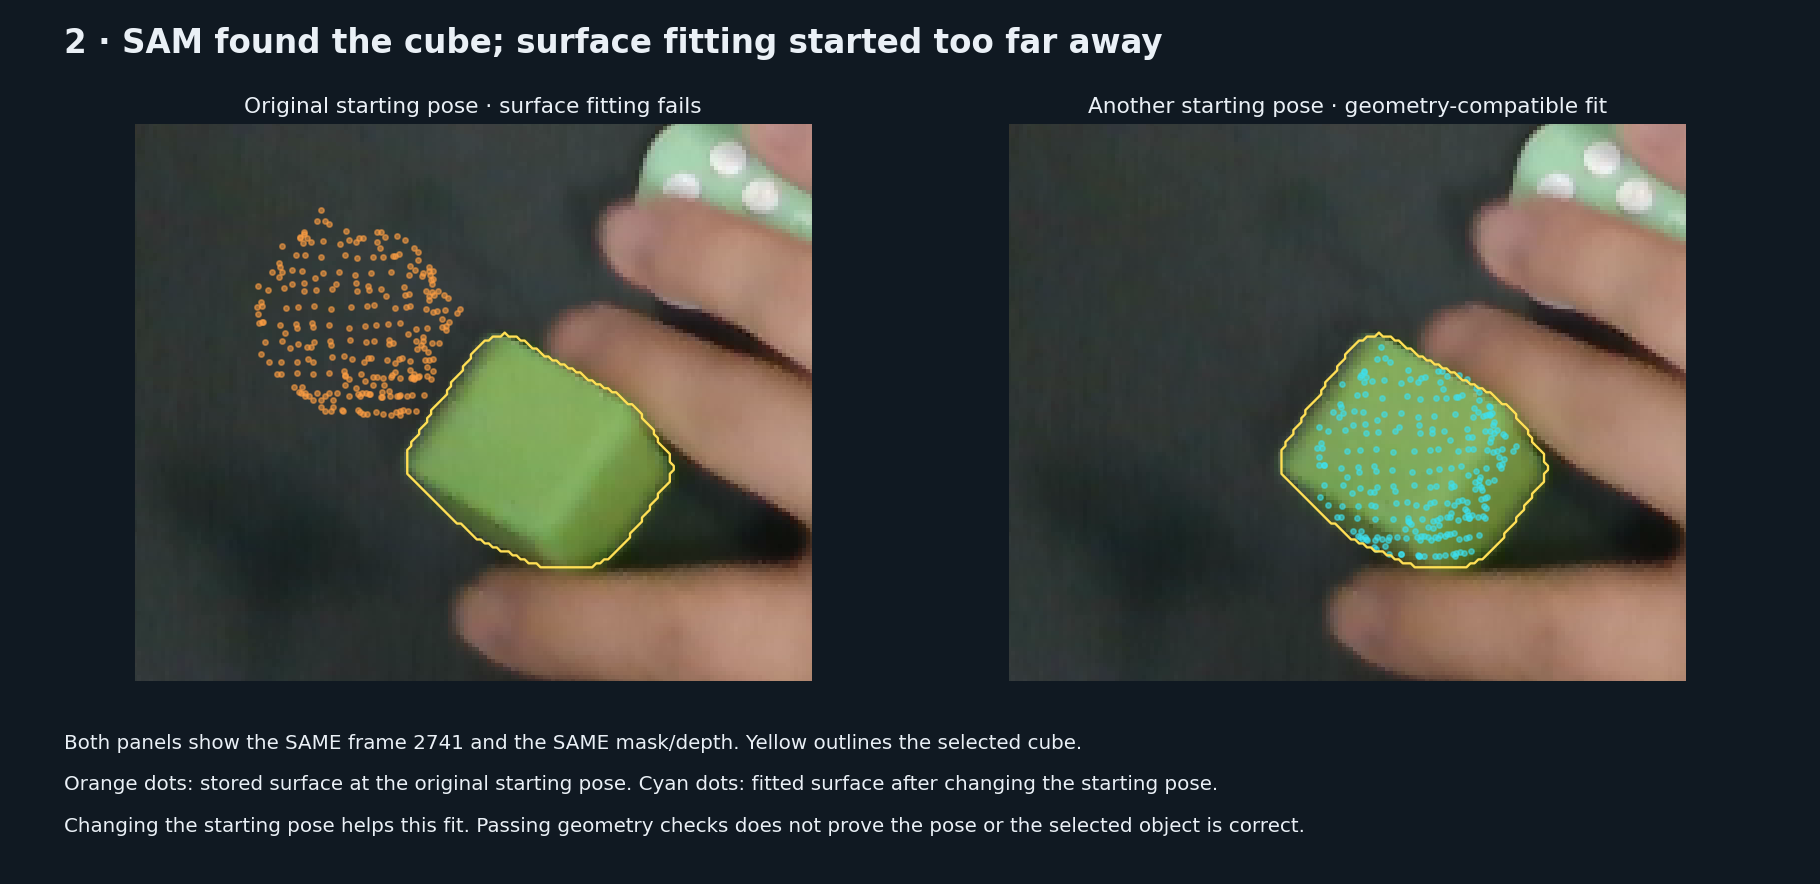
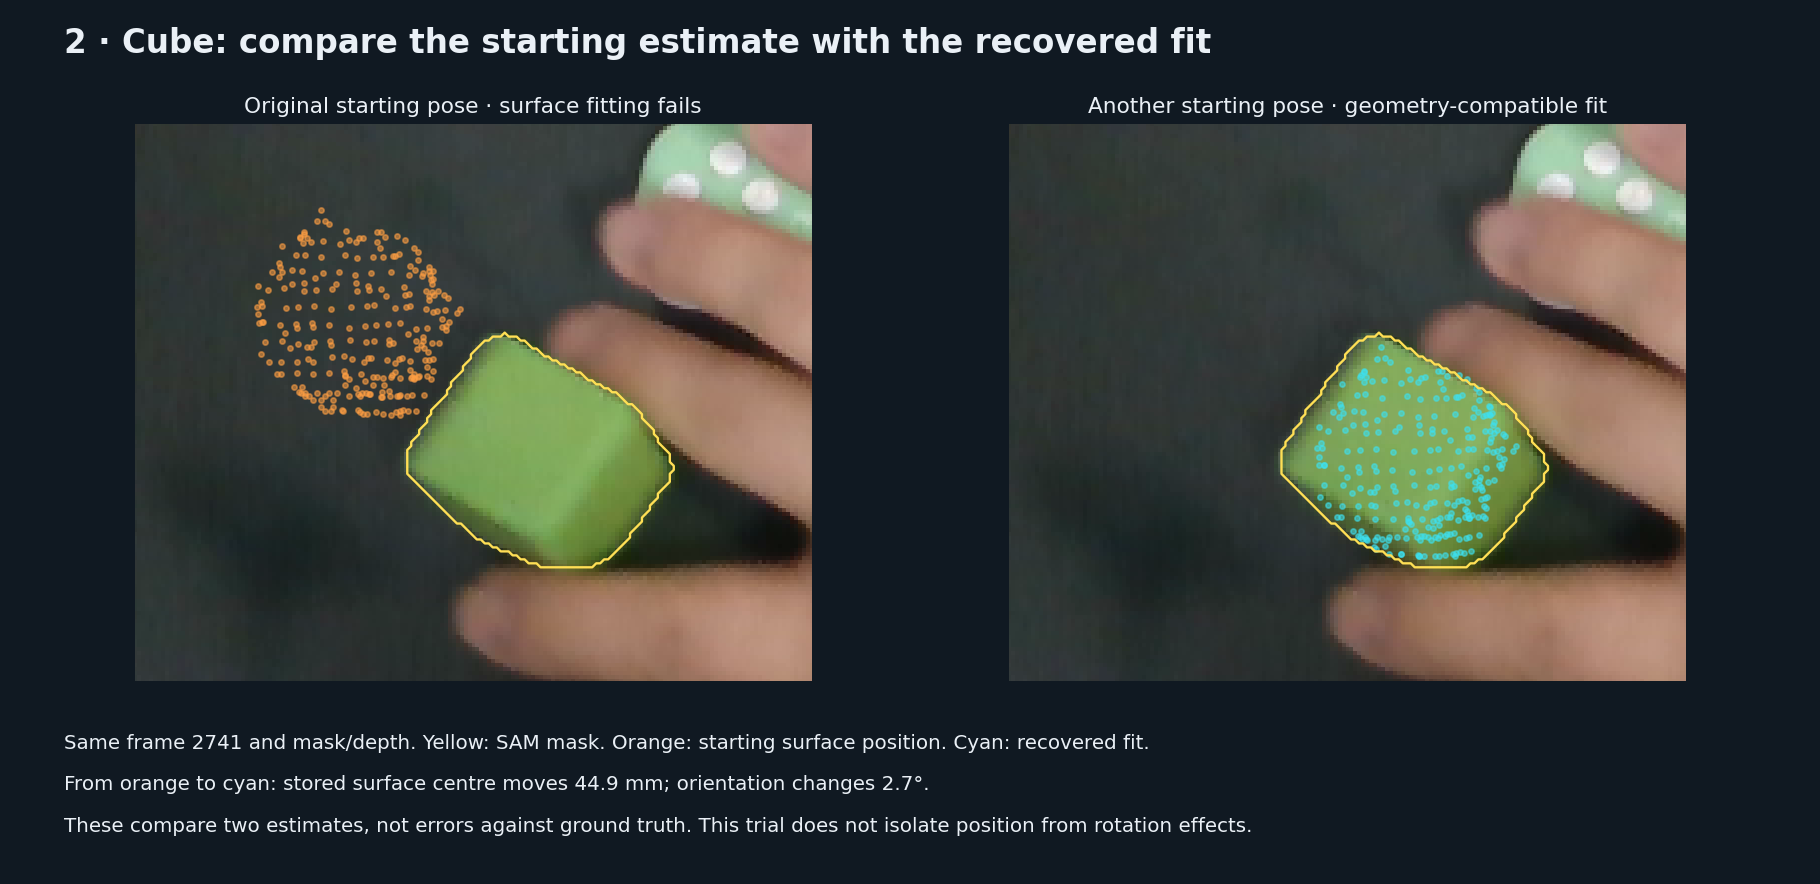
Explain FLASH coordinates and separate position from rotation
The glossary relied on undefined terms and local links unavailable to the remote reader. Describe the 2D pixel, measured camera-space 3D point and remembered object-space 3D point explicitly. Explain rigid motion groups with a tray-and-cube example, independently of anchor terminology.

Replace ambiguous distance wording with separate position and orientation comparisons. Compute the cube figure labels from saved replay geometry: the stored surface centre changes 44.9 mm and orientation changes 2.7 degrees between the starting estimate and recovered fit. These are comparisons of estimates, not ground-truth errors or an isolation of causal effects.

Require inline explanations for remote readers. Regenerated and visually inspected the figure, checked documentation links and fragments, and ran Ruff and whitespace checks. Tracking behavior is unchanged.

Changed region(s): [[0.0308, 0.8247, 0.7077, 0.9468], [0.0615, 0.0305, 0.6769, 0.0611]]

diff --git a/src/lerobot/policies/flash/docs/glossary.html b/src/lerobot/policies/flash/docs/glossary.html
@@ -29,7 +29,9 @@
     system stores or computes; they do not certify that an estimate is correct.</p>
   <p><strong>Writing convention:</strong> use the names below and link their first use
     in an explanation or report. Qualify “identity,” “reference,” and “alignment.”
-    Define a new term here before introducing it elsewhere.</p>
+    Define a new term here before introducing it elsewhere. Explanations must also
+    stand on their own for remote readers who cannot open local links. Specify 2D
+    or 3D, the coordinate system, and separate position from rotation differences.</p>
   <p class="scope">Checked against production source at <code>9ff25cf80</code> and the
     recovery experiments at <code>77becade1</code>. Experimental recovery is explicitly
     identified below; it is not the production default.</p>
@@ -134,19 +136,25 @@
 
   <section id="surface-fitting">
     <h2>Local surface fitting</h2>
-    <p><strong>Adjusting an initial object pose so the stored surface agrees with
-      the current measured surface.</strong> This is also called surface registration.
-      The <strong>starting pose</strong> is the initial rotation and translation
-      passed to that numerical solver.</p>
-    <p>“Local” describes the optimisation: it refines a starting estimate using
-      nearby surface correspondences and a bounded number of iterations. It does
-      not exhaustively search every possible pose. In this replay, the solver is
-      <code>small_gicp</code>; its surface correspondence distance is limited.</p>
-    <p><strong>Earlier wording:</strong> “local 3D alignment” meant this fitting step.
-      SAM can correctly select the cube while fitting still fails: placing the
-      stored surface too far from the measured cube can prevent the solver from
-      finding useful correspondences. The failure is in pose fitting, even when
-      segmentation is correct. See <a href="../../../../../docs/proofs/flash-recovery-20261119/02-local-alignment.png">the cube example</a>.</p>
+    <p><strong>Moving and rotating stored 3D surface points to agree with the
+      object's currently measured 3D surface points.</strong> This is also called
+      surface registration. The starting estimate has two distinct parts:
+      <strong>position</strong> (where the object is) and <strong>orientation</strong>
+      (how it is rotated).</p>
+    <p>“Local” means the solver improves an initial estimate using spatially nearby
+      3D points and a limited number of iterations, rather than searching every
+      possible position and rotation. A wrong starting position, a wrong starting
+      rotation, or both can prevent a successful fit. A rotation can move surface
+      points away from their corresponding measured points even if the object's
+      centre stays in the same place.</p>
+    <p><strong>Earlier wording:</strong> “too far away” failed to distinguish those
+      cases. In cube frame 2741, comparing the original starting estimate with the
+      recovered fit, the mean position of the same stored surface points changes
+      by <strong>44.9 mm</strong>, and orientation changes by <strong>2.7°</strong>.
+      These compare two estimates, not errors against a known correct pose. Changing
+      the starting estimate helps this example; it does not isolate the separate
+      causal effects of position and rotation. The SAM mask and depth are identical
+      in both trials. See <a href="../../../../../docs/proofs/flash-recovery-20261119/02-local-alignment.png">the measured comparison</a>.</p>
     <p class="source">Code: <a href="../experimental_surface_session.py#L851"><code>GrowingSurfaceSession.update</code></a>
       chooses the starting pose; <a href="../surface_grounding.py#L784"><code>WholeSurfaceFit._solve</code></a>
       and <a href="../surface_grounding.py#L798"><code>fit_once</code></a> run one bounded fit;
@@ -156,18 +164,29 @@
 
   <section id="object-anchor">
     <h2>Object point anchor</h2>
-    <p><strong>A stored association from a point track ID to that point's 3D
-      position in the object's fixed coordinates.</strong> The code representation
-      is <code>ObjectGroupAssociation.anchors[point_id] = xyz_in_reference</code>.</p>
-    <p>For example, an entry says “tracked point 42 belongs at this position relative
-      to the object.” The association uses these stored positions to relate the
-      object to a <a href="#motion-group">motion group</a>. Within the same reference,
-      later accepted observations can add new IDs but do not move existing entries.</p>
-    <p><strong>Earlier wording:</strong> “object anchor” meant this stored point, not
-      an extra marker or a point fixed in the room. An anchor can remain stored when
-      its point has no current measurement. Calling that point “hidden” did not
-      establish that it was physically occluded. Its predicted location is not a
-      fresh observation.</p>
+    <p><strong>A remembered 3D position of a point on the object, measured relative
+      to the object's fixed coordinate system.</strong> Its stored value is three
+      coordinates in metres. The label “anchor” names a code data structure; it is
+      not an extra physical marker.</p>
+    <p>For example, consider a small visible spot on a cube:</p>
+    <ol>
+      <li>In the RGB image the spot has a <strong>2D pixel position</strong>, such as
+        <code>(u, v)</code>. The image tracker gives that track an integer ID.</li>
+      <li>Depth at that pixel and the camera calibration give a <strong>3D position
+        relative to the camera</strong>.</li>
+      <li>Using the accepted object position and rotation, the code expresses that
+        3D point <strong>relative to the object</strong> and remembers it under the
+        track's ID: <code>anchors[42] = (x, y, z)</code>.</li>
+    </ol>
+    <p>The remembered value is 3D; the associated image track has 2D pixel positions.
+      When the cube moves, the spot's camera coordinates change, while its stored
+      coordinates relative to the cube remain fixed. Later measurements with that
+      track ID can be associated with this remembered point. An ID match remains
+      a tracking hypothesis and can be wrong.</p>
+    <p>The entry can remain stored without a current measurement of the spot. That
+      does not establish that the spot is physically occluded or that its predicted
+      current position is correct. Within the same object reference, accepted
+      observations can add new entries but do not move existing entries.</p>
     <p class="source">Code: <a href="../object_group_association.py#L167"><code>ObjectGroupAssociation.record_observation</code></a>
       creates entries and preserves existing coordinates;
       <a href="../object_group_association.py#L50"><code>query</code></a> uses them and can
@@ -177,13 +196,19 @@
 
   <section id="motion-group">
     <h2>Motion group</h2>
-    <p><strong>A set of tracked 3D points modelled as moving together rigidly.</strong>
-      It has a group ID, fixed group coordinates, a pose, and a flag distinguishing
-      currently measured members from members whose positions are predicted.</p>
-    <p>Groups are formed from scene motion, not SAM object labels. A group can contain
-      object and surrounding points. Relating the object to that group can supply
-      a pose prediction, but measured surrounding points alone do not establish
-      that an independently moved object still follows the group.</p>
+    <p><strong>A collection of 3D points that the tracker assumes move together as
+      one rigid body.</strong> This means one common rotation and translation
+      explains their motion; their distances from one another stay approximately
+      constant. The group need not equal one physical object or one SAM mask.</p>
+    <p>For example, points on a tray and a cube resting on it can appear to move
+      together. If the cube is then lifted, that shared-motion assumption is no
+      longer valid for the cube. Tracking the tray successfully does not tell us
+      where the lifted cube went.</p>
+    <p>The implementation retains some unmeasured group points and predicts their
+      positions from the measured members. Remembered object points can connect
+      an object to such a group. In the recorded failure, the group still had
+      measured background points while its established object points had no current
+      measurements, so its object position prediction was stale.</p>
     <p class="source">Code: <a href="../motion_groups.py#L76"><code>GroupView</code></a>
       and <a href="../object_group_association.py#L50"><code>ObjectGroupAssociation.query</code></a>.</p>
   </section>

diff --git a/docs/proofs/flash-recovery-20261119/index.html b/docs/proofs/flash-recovery-20261119/index.html
@@ -50,8 +50,8 @@ const glossary='../../../src/lerobot/policies/flash/docs/glossary.html';
 const term=(id,label)=>`<a href="${glossary}#${id}">${label}</a>`;
 const explanations={
 '01-lost-identities.png':`A ${term('point-track-id','point track ID')} labels one tracked image point. Here the object is visible, but no old IDs connect the ${term('accepted-observation','last accepted image')} to the current image.`,
-'02-local-alignment.png':`${term('surface-fitting','Local surface fitting')} adjusts a starting pose to match the stored surface to current depth. SAM supplies the correct ${term('segmentation-mask','mask')}, but the solver can still fail when its starting pose is too far away.`,
-'03-stale-group.png':`An ${term('object-anchor','object point anchor')} stores a tracked point’s position relative to the object. Here the ${term('motion-group','motion group')} still has measured background points, but none of its stored object points has a current measurement. Its object prediction is stale.`,
+'02-local-alignment.png':`${term('surface-fitting','Surface fitting')} moves and rotates stored 3D points to match current depth. Compare position and rotation separately: from the starting estimate to the recovered fit, the stored surface centre moves 44.9 mm and orientation changes 2.7°. These compare estimates, not ground-truth errors. Both trials use the same SAM mask and depth.`,
+'03-stale-group.png':`An ${term('object-anchor','object point anchor')} remembers a 3D position relative to the object, indexed by an image track’s ID. A ${term('motion-group','motion group')} is a collection of 3D points assumed to move together rigidly. Here the group still has measured background points, but its established object points have no current measurements. Predicting the object’s position from that group gives a stale result.`,
 '04-filter-rejection.png':`The ${term('kalman-update','Kalman pose update')} combines the old prediction with the new surface fit. This is what “smoothing” meant. The resulting pose fails a depth check even though the new fit passed.`,
 '05-depth-pairs.png':`An ${term('image-match','image match')} supplies two pixels. A ${term('3d-pair','usable 3D pair')} also needs acceptable depth at both pixels. Here only three pairs survive those checks; the motion fit needs at least six.`};
 document.querySelectorAll('button[data-file]').forEach(button=>button.addEventListener('click',()=>{

diff --git a/benchmarks/flash_recovery_figures.py b/benchmarks/flash_recovery_figures.py
@@ -103,12 +103,17 @@ def main(recording, evidence, output):
         dots(ax[0], 2741, "seed", AMBER, "Original starting pose")
         dots(ax[1], 2741, "alternative_center", CYAN, "Alternative fitted surface")
 
+    start, recovered = data["seed_2741"], data["alternative_center_2741"]
+    center = data["reference_2741"].mean(axis=0, keepdims=True)
+    position_mm = 1000 * float(np.linalg.norm(move(center, recovered) - move(center, start)))
+    rotation = recovered[:3, :3] @ start[:3, :3].T
+    rotation_deg = float(np.rad2deg(np.arccos(np.clip((np.trace(rotation) - 1) / 2, -1, 1))))
     figure(
-        "2 · SAM found the cube; surface fitting started too far away",
+        "2 · Cube: compare the starting estimate with the recovered fit",
         [
-            "Both panels show the SAME frame 2741 and the SAME mask/depth. Yellow outlines the selected cube.",
-            "Orange dots: stored surface at the original starting pose. Cyan dots: fitted surface after changing the starting pose.",
-            "Changing the starting pose helps this fit. Passing geometry checks does not prove the pose or the selected object is correct.",
+            "Same frame 2741 and mask/depth. Yellow: SAM mask. Orange: starting surface position. Cyan: recovered fit.",
+            f"From orange to cyan: stored surface centre moves {position_mm:.1f} mm; orientation changes {rotation_deg:.1f}°.",
+            "These compare two estimates, not errors against ground truth. This trial does not isolate position from rotation effects.",
         ],
         "02-local-alignment.png",
         two,

diff --git a/AGENTS.md b/AGENTS.md
@@ -146,6 +146,10 @@ how several defects went unnoticed for months.
   to its definition. Add a precise definition and code citation before introducing
   a new term. Distinguish point track IDs, object identity, and coordinate frames;
   do not use “identity,” “reference,” or “alignment” without qualifying them.
+  Explain terms inline as well: the user accesses remotely and cannot rely on
+  localhost or local-file links. State whether a point is 2D or 3D and which
+  coordinates it uses. Report position differences in distance units and rotation
+  differences in degrees separately; never describe a pose as merely “too far away.”
 - **FLASH perception:** [`src/lerobot/gui/static/flash_architecture.html`](src/lerobot/gui/static/flash_architecture.html)
   is the canonical diagram of the running frame path. Update it in the same
   change when altering frame inputs, group evidence, fitting, pose publication,
